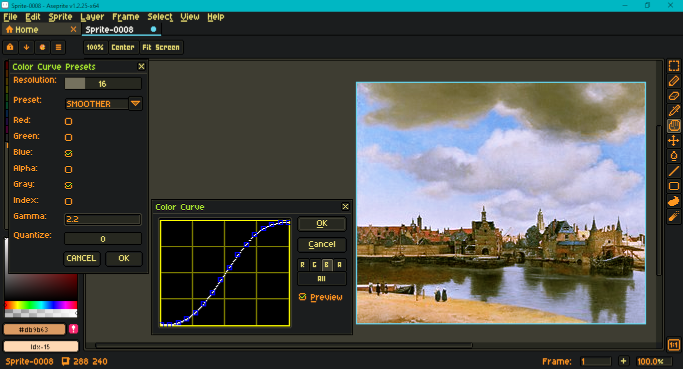
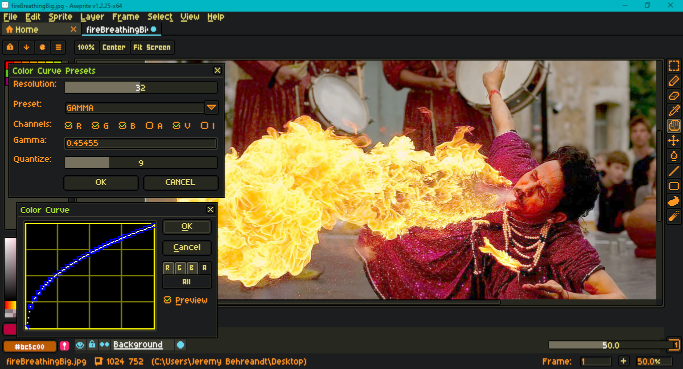
Palette Gen Update
Allowed range of hues to be sampled in palette generator example. Changed quantize behavior for gradients. Updated dialog appearance for various scripts.

diff --git a/README.md b/README.md
@@ -1,6 +1,6 @@
 # Aseprite Add-ons
 
-An appendix to the Medium article, ["How To Script Aseprite Tools in Lua"](https://behreajj.medium.com/how-to-script-aseprite-tools-in-lua-8f849b08733). Open scripts from the `dialogs` directory in Aseprite to see results.
+An appendix to the Medium article, ["How To Script Aseprite Tools in Lua"](https://behreajj.medium.com/how-to-script-aseprite-tools-in-lua-8f849b08733). Copy `dialog` and `support` folders to Aseprite scripts folder. In Aseprite, open scripts from the `dialogs` folder.
 
 ## References
 
@@ -30,7 +30,7 @@ This repo includes
 
   ![Checker](screencaps/checker.png)
 
-- Color curve presets. ([Test image source](https://en.wikipedia.org/wiki/File:Vermeer-view-of-delft.jpg).)
+- Color curve presets. ([Test image source](https://en.wikipedia.org/wiki/File:Fire_breathing_2_Luc_Viatour.jpg).)
 
   ![Color Curve](screencaps/colorCurve.png)
 
@@ -61,6 +61,10 @@ This repo includes
 - Luminance (grayscale) remapping. ([Test image source](https://en.wikipedia.org/wiki/File:Fire_breathing_2_Luc_Viatour.jpg).)
 
   ![Luminance remapping](screencaps/lumRemap.png)
+
+- An RYB palette generator.
+
+  ![Palette Generator](screencaps/paletteGen.png)
 
 - A regular convex polygon.
 
